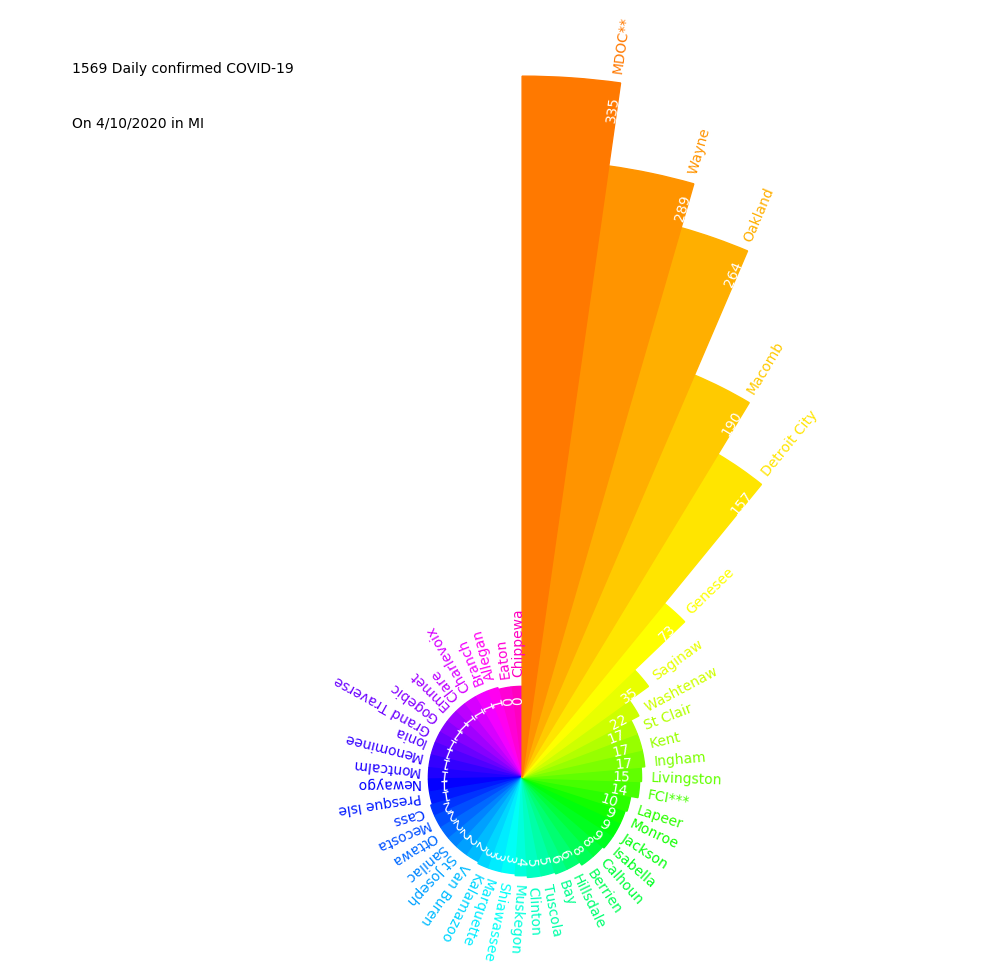
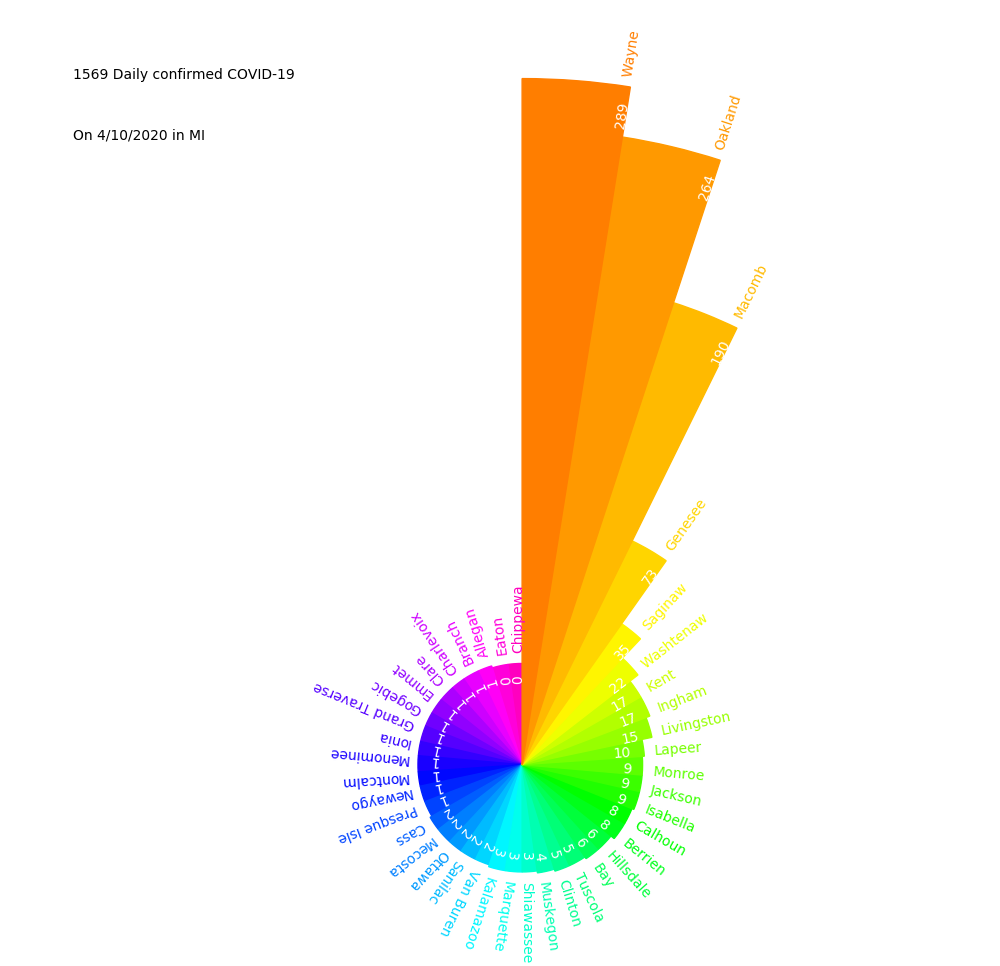
check county name by csv in show rainbow

diff --git a/virusviz18.py b/virusviz18.py
@@ -97,7 +97,9 @@ class runVirusViz(object):
             self.data_daily, self.l_mi_cases = self.readDataDaily(True)
             pass
         elif(key == 65472 or key == 1114048 or key == 7405569):   # F3 key gmaps
-            self.showCountyInMap()
+            if self.data_daily == True: type_data=1
+            else: type_data =2
+            self.showCountyInMap(type_data)
             pass  
         elif(key == 65474 or key == 1114050):   # F5 key refresh newest from website
             self.data_daily = False
@@ -464,6 +466,11 @@ class runVirusViz(object):
             1) 
 
     #
+    def isRealCounty(self, c_name, lst_counties):
+        for a_county in lst_counties:
+            if(c_name in a_county[3]): return True
+        return False
+    #
     def infoShowRainbow(self, type_data, lst_data):
         print('infoShowRainbow...', type_data)
         fig=plt.figure()
@@ -477,13 +484,14 @@ class runVirusViz(object):
         # clean list
         l_d_clean = []
         l_max_v = 0
+        l_counties = []
+        coord_f = self.state_dir + 'state_county_coord.csv'
+        if(isfile(coord_f) ):
+            l_counties = self.open4File(coord_f)
+
         for a_case in lst_data:
-            if('Total' in a_case[0]): continue
-            if('Out of State' in a_case[0]): continue
-            if('Unknown' in a_case[0]): continue
-            if('Other' in a_case[0]): continue
-            if('Not Reported' in a_case[0]): continue
-            if('County' in a_case[0]): continue
+            if(self.isRealCounty(a_case[0], l_counties)): pass
+            else: continue
             l_d_clean.append(a_case)
             if(int(a_case[col]) > l_max_v): l_max_v = int(a_case[col])
         n_total=0		
@@ -594,9 +602,9 @@ class runVirusViz(object):
             else: lst_data_daily.append(lst_data_overall[ii] - lst_data_overall[ii-1])  
 
         # predict the future
-        data = lst_data_daily
+        data = lst_data_daily  #[0:-1]
         #print(lst_data_overall)
-        #data.append( int(data[-1] * 0.98) )
+        #data.append( int(data[-1] * 0.9) )
         days = np.arange(0, len(data), 1)
         popt, pcov = curve_fit(self.SIR, days, data)
         print(' contact parameter, recovery rate:', popt)
@@ -608,7 +616,7 @@ class runVirusViz(object):
         fig.set_figwidth(20)
         plt.scatter(days, data, label="Actual new cases per day", color='r')
         date_s = 18
-        date_len = int(2*len(data))
+        date_len = int(3*len(data))
         day_future = np.arange(0, date_len, 1)
         day_mmdd = []
         for jj in range(date_len):
@@ -703,7 +711,7 @@ class runVirusViz(object):
                 patches.append( Polygon(np.array(shape), True) )
                 ax.add_collection(PatchCollection(patches, facecolor=facecolor2, edgecolor=edgecolor, linewidths=1))
     ## GMAPS
-    def showCountyInMap(self):
+    def showCountyInMap(self, type_data):
         print('showCountyInMap...')
         # 10. read name of counties
         coord_f = self.state_dir + 'state_county_coord.csv'
@@ -761,10 +769,14 @@ class runVirusViz(object):
             ii += 1
            
         # 58. draw title 
-        type_data = 2
+        #type_data = 2
         if(type_data==1):
-            plt.text(-l_max_v+5, l_max_v-30, '%d Daily confirmed COVID-19'%(n_total))
-            plt.text(-l_max_v+5, l_max_v-60, 'On '+self.now_date + ' in MI')
+            lat2, lon2 = 48.095130, -87.966323
+            x, y = m(lon2, lat2) 
+            plt.text(x, y, '%d Daily confirmed COVID-19'%(n_total),fontsize=20, ha='left',va='center',color='g')
+            lat2, lon2 = 47.895130, -87.966323
+            x, y = m(lon2, lat2) 
+            plt.text(x, y, 'On '+self.now_date + ' in MI',fontsize=16, ha='left',va='center',color='g')
         elif type_data ==2:
             lat2, lon2 = 48.095130, -87.966323
             x, y = m(lon2, lat2) 
@@ -772,9 +784,6 @@ class runVirusViz(object):
             lat2, lon2 = 47.895130, -87.966323
             x, y = m(lon2, lat2) 
             plt.text(x, y, 'COVID-19 Until '+self.now_date + ' in MI',fontsize=16, ha='left',va='center',color='g')
-        elif type_data ==3:
-            plt.text(-l_max_v+10, l_max_v-20, '%d Overall deaths COVID-19'%(n_total))
-            plt.text(-l_max_v+10, l_max_v-40, 'Until '+self.now_date + ' in MI')
         # 59. draw logo 
         lat2, lon2 = 47.415000, -82.283829
         x, y = m(lon2, lat2) 
@@ -786,9 +795,10 @@ class runVirusViz(object):
         # 60. show all
         fig.tight_layout()      
         plt.show()
-        fig.savefig(self.state_dir + 'results/mi_county'+self.name_file+'.png')
-        if(self.isNameOnToday(self.name_file)):
-            fig.savefig(self.state_dir + 'results/mi_county20200000.png')
+        if(type_data==2):
+            fig.savefig(self.state_dir + 'results/mi_county'+self.name_file+'.png')
+            if(self.isNameOnToday(self.name_file)):
+                fig.savefig(self.state_dir + 'results/mi_county20200000.png')
   
     ## exit node
     def exit_hook(self):
